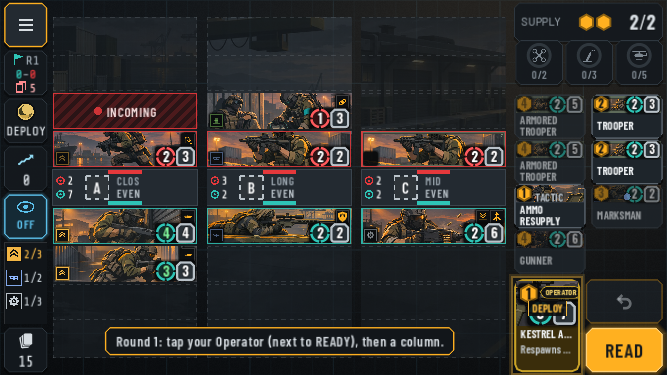
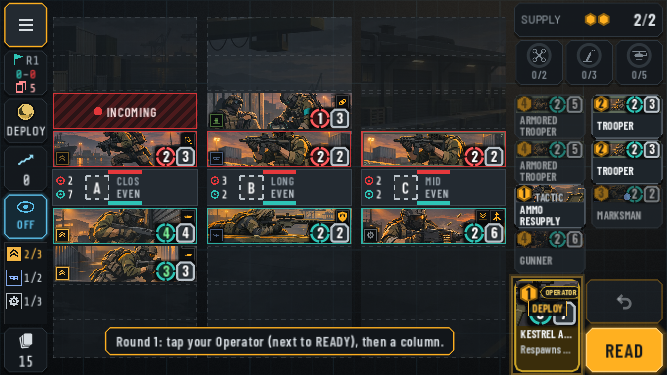
kc-readability: KillingCard bigger card numbers in Oswald Bold with outline, dark backing plates behind badge groups, Supply counter uses the cost hex; screenshots and notes; 550 tests
Claude-Session: https://claude.ai/code/session_01JmVwVgoeVTdNBC1RfBf5V4

Changed region(s): [[0.8696, 0.0293, 0.9895, 0.088], [0.7796, 0.0293, 0.8396, 0.088], [0.5397, 0.3813, 0.5697, 0.44]]

diff --git a/projects/killingcard/documentation/ux/board-layout-v2.md b/projects/killingcard/documentation/ux/board-layout-v2.md
@@ -422,3 +422,69 @@ Screenshots (390x844, public art only) are in `qa/screenshots/portrait/`: the ma
 - **Tactics:** the T1 cut corner no longer shortens the title slot, so BREACH AND CLEAR fits at 172 px.
 - **Test:** `test_portrait::test_portrait_cards_show_whole_names_and_lore` checks at 390x844 and 360x780 that no Y2+ title or lore line is cut on these screens: starter squad, Codex, Supply Drop, every card at the 172 px Muster out / Salvage width, mulligan, hand fan. A 124 px probe confirms the check catches a cut name.
 - **Totals:** 547 tests pass. Screenshots re-shot, including `10_starter_squad.png`.
+
+## Implementation notes (kc-readability, UI/UX Agent, 2026-11-06)
+The head, playing on an iPhone in landscape: the hand cards were too hard to read, the cost and stat
+icons and numbers needed to be bigger, the font could be better, the Supply counter should use the
+cards' cost iconography, and the icons needed a dark backing over the card art.
+
+- **Number face.** All card numbers (cost, FP, Armor, on every card size) and the Supply counter use
+  Oswald Bold with tabular digits (`assets/fonts/card_numbers_oswald.tres`, a FontVariation of
+  `Oswald-Variable.ttf`, wght 700, tnum). Its licence is in `OFL-Oswald.txt`. Numbers drawn over art
+  have a 4 px dark outline (`CardLook.NUM_OUTLINE`). The runner-up was Barlow Condensed ExtraBold
+  (`card_numbers_barlow.tres`); see `qa/screenshots/readability/font_candidates.png`.
+- **Backings.** Each corner badge group sits on its own soft dark plate: `CardLook.BACKING`, 80%
+  near-black, rounded, with a soft shadow edge. The groups are the cost (with the level and class
+  when peeked), the stats and the trait. A plate is never a band across the card, so the art stays
+  visible between the badges. BannerView records the plates it drew in `backing_rects` for the tests.
+  The trait plate is drawn only when a trait exists.
+- **Hand X1 at 844x390** (1168x540 canvas, 0.722 pt/px):
+
+  | Badge | Before | After | Digits after |
+  |---|---|---|---|
+  | Cost hex | about 15 px | 27 px (`HAND_COST_SCALE`) | about 21 px, 15 pt |
+  | FP / Armor | 20 / 19 px | 32 px, drawn by the card (`BannerCard.stat_rects`) | about 20–22 px, 14–16 pt |
+
+  - The ability row shrinks to 14 px icons (`HAND_ABILITY_PX`) and sits above the stats.
+  - The name keeps the full plate width.
+  - Narrow cards, when the stats would drop below 24 px (the iPhone SE / 16:9 tray), switch to a
+    narrow mode:
+    - the abilities, level coin and weapon pill are hidden (all still in inspect);
+    - the stats take the banner height;
+    - the name wraps to two lines.
+- **Board banners (C1+).** Badge sizes at k = banner height / 57:
+
+  | Badge | Before | After |
+  |---|---|---|
+  | Reticle | 26k | 30k |
+  | Armor | 25k × 26k | 29k × 30k |
+  | Cost | 20k | 24k |
+  | Ability icons | 21k | 20k |
+
+  The board's FP / Armor digits go from about 16 px to about 20 px (14.4 pt).
+- **Operator card (O2) and Y2+ cards.**
+  - The O2 card ink gets a 26 px cost hex and 32 / 31 px stats, on backings.
+  - The CardView number labels go from 17 to 21 px.
+  - A number label's slot is its badge, grown and centred to Oswald's line height, because Oswald's
+    line box is taller than the badge but its digits are not (`CardView._num_slot`).
+- **Supply counter.** The pips are the cards' cost hex: amber while available, a dark hex with an
+  amber outline once spent. This applies in the landscape HUD and in the portrait Supply row.
+  - The value is in the number face at 22 px, with an outline.
+  - The pip row keeps its old 18 / 20 px height, and the stacked gap is 2 px, so the box does not
+    grow into the hand or the killstreak row.
+  - Long press / right click still opens the Supply inspect.
+- **Tests and screenshots.**
+  - `tests/test_readability.gd` checks:
+    - the number face and its licence;
+    - the hand and board digit sizes in pt, with a 13 pt floor at 844x390 and 11 pt at 667x375;
+    - that the backings are plates, not bands;
+    - the Supply hex pips and number face;
+    - the Y2+ labels.
+  - Screenshots are in `qa/screenshots/readability/`:
+    - before / after at 844 and 667: full screen, tray at 2x, board at 2x, Supply at 3x;
+    - after only, for portrait and desktop;
+    - the font candidates sheet.
+  - Shot tool: `tests/tools/shot_readability.gd`.
+- **Open questions.**
+  - On the 16:9 SE the hand digits reach about 11 pt, not 13. The tray is narrow there.
+  - The hand abilities shrink to 14 px. The alternative is to move them to inspect only.
